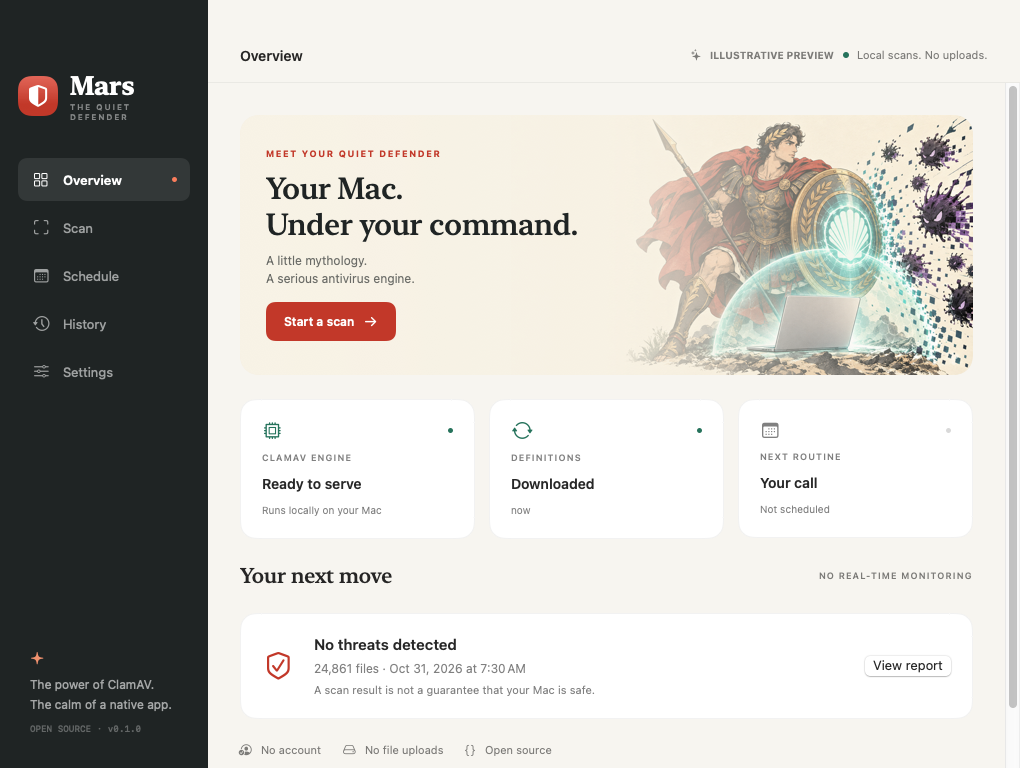
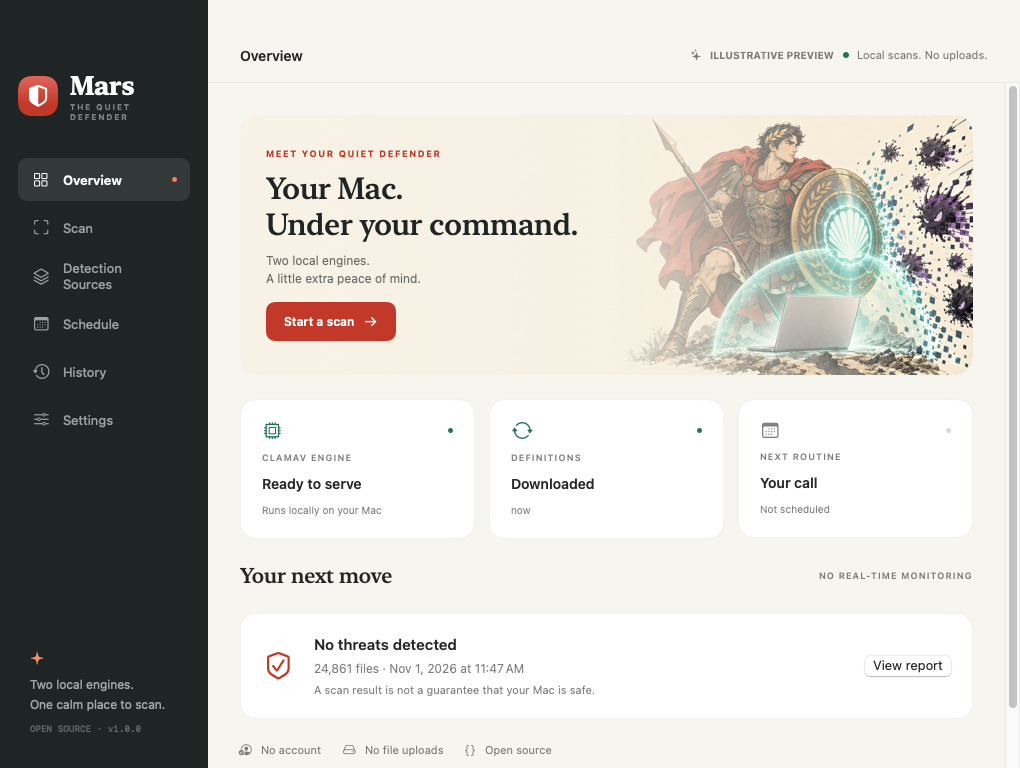
Publish Mars 1.0.0 native screenshots and verified release handoff

diff --git a/docs/VALIDATION.md b/docs/VALIDATION.md
@@ -2,11 +2,17 @@
 
 This document separates automated evidence from real-Mac acceptance. A successful build is not proof of comprehensive antivirus protection.
 
-## Verified build
+## Mars 1.0.0 verified build
 
-The 1.0.0 test suite adds old-report migration, opt-in source defaults, pinned-content tamper rejection, private URL restrictions/storage permissions, atomic activation/rollback, YARA JSON attribution, candidate-list limits, cancellation, safe result interpretation, pinned GPG-key import, real two-engine scanning, missing-source coverage, invalid rule rejection, and live pinned Elastic download/compilation. The release workflow must pass these checks before publication.
+The [native macOS run on November 1, 2026](https://github.com/paulfxyz/mars/actions/runs/41312796415) passed **36 tests with zero failures**, packaged the universal app, verified its ad-hoc signature and both architectures, and captured ten actual native views. Its tested app-source commit is `e662105`; the following documentation and screenshot additions do not change that app source.
 
-The historical evidence below belongs to 0.1.0 and is not presented as 1.0.0 acceptance. Native 1.0.0 screenshots and CI evidence are updated after the new run.
+The checks include old-report/preferences migration, opt-in source defaults, pinned-content tamper rejection, private URL restrictions/storage permissions, activation and rollback, YARA JSON attribution, candidate-list limits, user cancellation, a bounded transport deadline that is not mislabeled user cancellation, safe result interpretation, and an isolated pinned GPG verification keyring.
+
+Live tests downloaded and compiled the pinned Elastic Mac pack, and downloaded Sanesecurity's four files, verified their detached signatures against the embedded provider key, and loaded them in ClamAV. A harmless custom fixture exercised ClamAV and YARA-X in the same scan and preserved engine/source provenance. No real malware was used.
+
+The downloaded universal ZIP passed a second SHA-256 check outside the CI runner. All ten captures were visually reviewed: overview, scan setup, schedule, history, settings, dark overview, compact overview, sources, during-scan console, and the actual results sheet. All use clearly labeled synthetic data; scrollable screens intentionally show a normal viewport rather than fabricated full-page layouts.
+
+## Historical 0.1.0 evidence
 
 The [native macOS run on October 31, 2026](https://github.com/paulfxyz/mars/actions/runs/41188889071) passed **17 tests with zero failures**, including the real ClamAV custom-signature fixture. The tested app-source commit is `3cb0f8c`; subsequent repository documentation and image additions do not change the app source in this release.
 
@@ -29,6 +35,9 @@ Packaging must build both arm64 and x86_64 executables for GUI and helper, verif
 - A real scheduled run while the GUI is quit, followed by sleep/wake and login behavior.
 - Real-world malware detection performance, false-positive rate, or resistance to hostile input.
 - Native Intel execution; a universal Intel slice is built and checked but not executed by an Apple-silicon runner.
+- A real paid SecuriteInfo account and authorized subscription URLs; configuration validation is tested, not a customer's account.
+- Optional Homebrew YARA-X/GnuPG/rsync availability on every macOS 13+ and Intel configuration.
+- Detection quality of arbitrary imported packs or all upstream Elastic rules beyond the four pinned files.
 
 ## Hands-on acceptance checklist
 

diff --git a/CONTRIBUTING.md b/CONTRIBUTING.md
@@ -4,7 +4,14 @@ Mars is deliberately small: a native interface, a testable Foundation core, and 
 
 ## Work locally
 
-Use macOS 13+ and Swift 5.9+. Run `swift test` and `swift build` before opening a pull request. For the real-engine fixture, install ClamAV through Homebrew and run `MARS_CLAMAV_TESTS=1 swift test`.
+Use macOS 13+ and Swift 5.9+. Run `swift test` and `swift build` before opening a pull request. For real-engine fixtures, install the optional components too:
+
+```sh
+brew install clamav yara-x gnupg rsync
+MARS_CLAMAV_TESTS=1 swift test
+```
+
+Set `MARS_SOURCE_NETWORK_TESTS=1` as well to exercise the live pinned Elastic download and GPG-verified Sanesecurity mirror update. These tests require the relevant network access; a mirror timeout is a failure, not a skipped or silently accepted source.
 
 The integration fixture uses a harmless custom ASCII signature database. Do not commit malware, real private scan logs, signing credentials, downloaded official databases, or user exports.
 
@@ -16,6 +23,6 @@ Use `dist/Mars.app/Contents/MacOS/mars --demo` for synthetic visual review after
 
 ## Release
 
-Increment the app version consistently in the packaging script, About panel, Settings, README, changelog, and release notes. Run the native CI suite, verify both binary architectures and signatures, inspect screenshots, and download the generated archive to check its SHA-256 checksum.
+Increment the app version consistently in the packaging script, About panel, Settings, README, changelog, workflow release target, and release notes. Run the native CI suite, verify both binary architectures and signatures, inspect screenshots, and download the generated archive to check its SHA-256 checksum.
 
-Do not replace published release assets in place. Early releases must remain clearly labeled community previews until hands-on permissions, real installation, sleep/wake scheduling, and detection behavior have been accepted on real Macs.
+Do not replace published release assets in place. Releases must clearly disclose missing notarization, unaudited status, and hands-on permissions, real installation, sleep/wake scheduling, and detection acceptance limits; a 1.0 version number does not remove those limits.

diff --git a/INSTALL.md b/INSTALL.md
@@ -58,6 +58,8 @@ Mars 1.0.0 adds Detection Sources. ClamAV remains the required baseline; to use 
 
 Every unofficial source requires a terms confirmation. Elastic's starter rules are pinned and hash-checked; Sanesecurity requires GnuPG and rsync connectivity; SecuriteInfo requires your own licensed official URLs. Configure those URLs inside Mars, not in chat or a public issue. A failed verification leaves the previous source untouched, and Roll back swaps the retained versions.
 
+Install verification tools installs both GnuPG and a current Homebrew rsync. Built-in macOS rsync versions can differ substantially; Mars prefers the Homebrew binary and bounds each transfer with a wall-clock deadline. Sanesecurity's signed payload dates are displayed separately from its download time, because some databases contain older historical signatures.
+
 During a scan, Mars displays human-readable stages and a collapsible read-only console. Observed results are not an estimate of remaining work. YARA-X first builds a bounded candidate list; candidates submitted are not presented as a confirmed scanned-file count.
 
 The report explains the outcome, exact source provenance, coverage notes, and safe next steps. Prepare another scan restores the scope but does not start work without another click. Finder reveal, copy path, and JSON export are available; no delete or quarantine action is performed.

diff --git a/README.md b/README.md
@@ -124,7 +124,7 @@ swift run mars
 For engine integration tests and a universal app bundle:
 
 ```sh
-brew install clamav yara-x gnupg
+brew install clamav yara-x gnupg rsync
 MARS_CLAMAV_TESTS=1 swift test
 bash scripts/package.sh
 open dist/Mars.app
